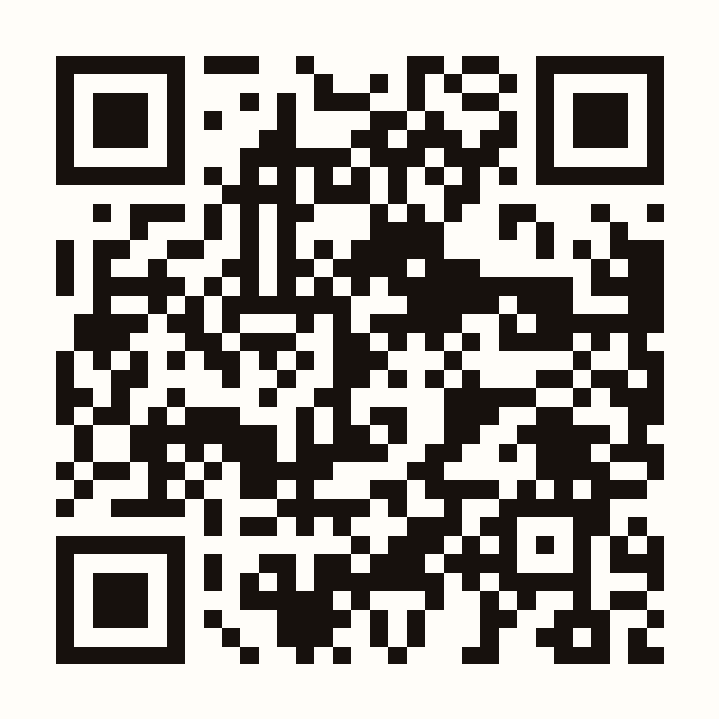
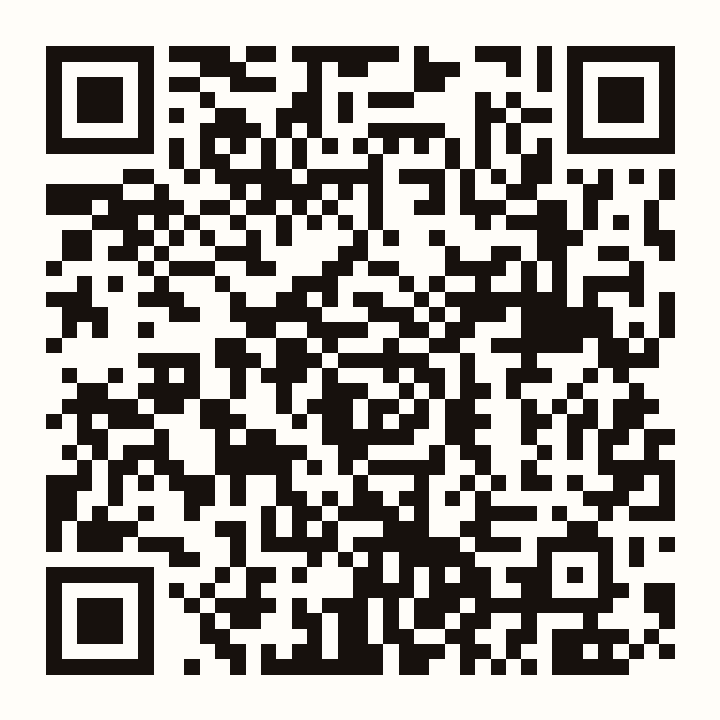
Update QR codes for production

diff --git a/README.md b/README.md
@@ -51,7 +51,7 @@ Local demo data is browser-specific. Use Supabase for shared, persistent orders 
 ```env
 NEXT_PUBLIC_SUPABASE_URL=https://your-project.supabase.co
 NEXT_PUBLIC_SUPABASE_ANON_KEY=your-anon-key
-NEXT_PUBLIC_APP_URL=https://your-deployed-domain.example
+NEXT_PUBLIC_APP_URL=https://yapa-cafe-f3fb.vercel.app
 ```
 
 6. Restart the development server.
@@ -60,7 +60,7 @@ Do not commit `.env.local`, and do not put a Supabase service-role key in any `N
 
 ## QR codes
 
-Set `NEXT_PUBLIC_APP_URL` to a deployed domain or a LAN address reachable by phones, then run:
+Set `NEXT_PUBLIC_APP_URL` to the production domain, then run:
 
 ```bash
 npm run qr:generate
